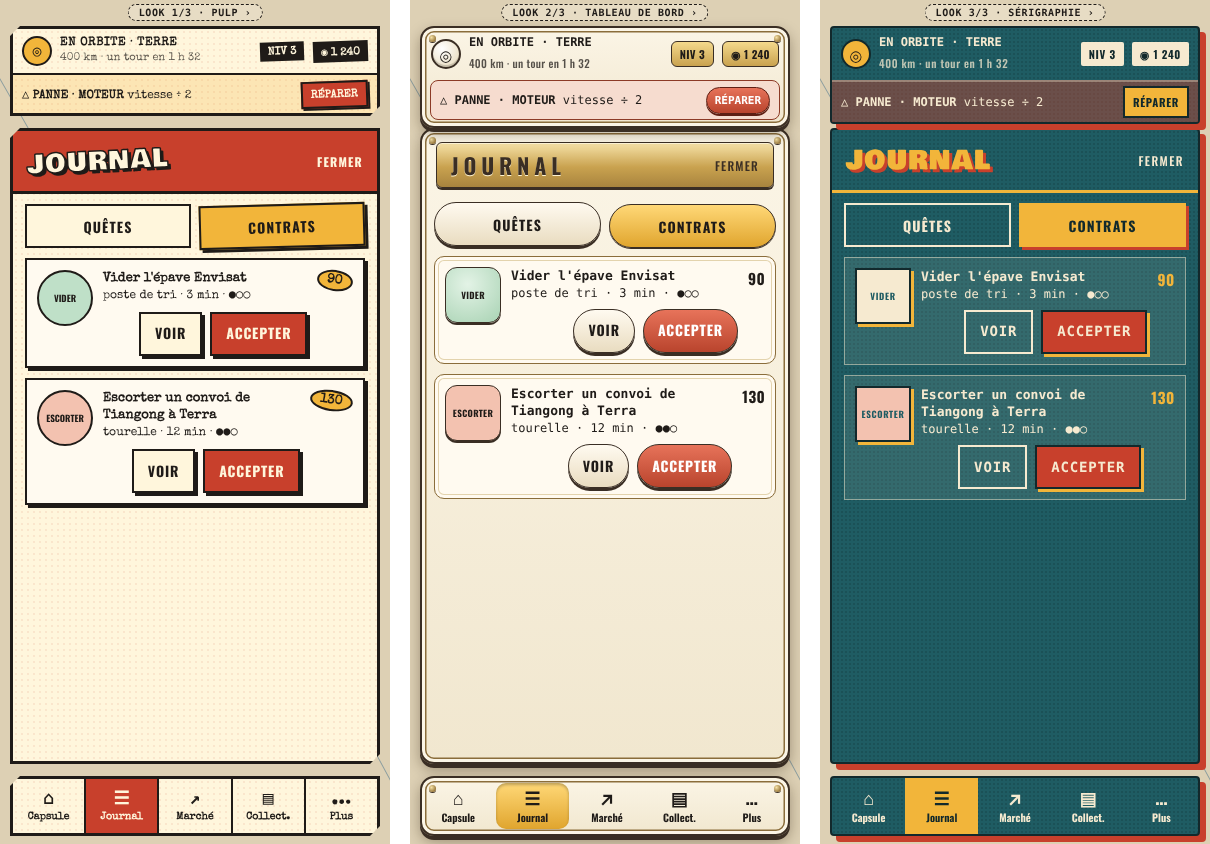
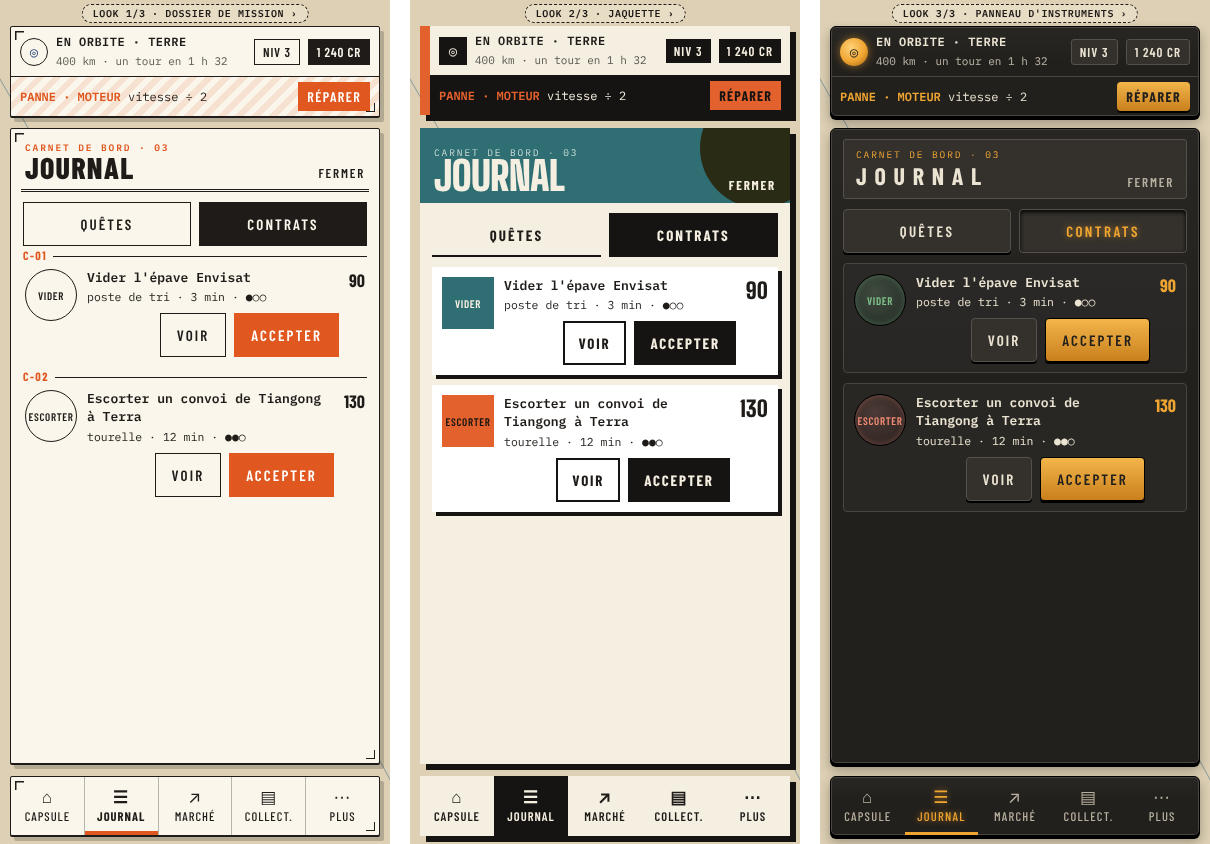
Maquette des fenêtres, deuxième tour : dossier de mission, jaquette, panneau d'instruments
Claude-Session: https://claude.ai/code/session_01F6ocbpycmQ7YQZPxUJPY13

diff --git a/maquette-fenetres.html b/maquette-fenetres.html
@@ -6,150 +6,167 @@
     <meta name="theme-color" content="#e7dcc4" />
     <link rel="preconnect" href="https://fonts.googleapis.com" />
     <link rel="preconnect" href="https://fonts.gstatic.com" crossorigin />
-    <link href="https://fonts.googleapis.com/css2?family=Bowlby+One+SC&family=Special+Elite&family=Oswald:wght@500;700&display=swap" rel="stylesheet" />
+    <link href="https://fonts.googleapis.com/css2?family=Barlow+Condensed:wght@500;600;700;800&family=IBM+Plex+Mono:wght@400;500;600&family=Big+Shoulders+Display:wght@800;900&display=swap" rel="stylesheet" />
     <title>Maquette des fenêtres</title>
     <!--
-      Trois looks rétro pour les fenêtres (demande d'Adrien du 22/10/2026 : « vintage, rétro, pulp 50's ; tu peux carrément
-      changer le look ? »), sur la carte kraft. Données fictives. La pastille du haut fait passer d'un look à l'autre.
+      Trois looks pour les fenêtres, deuxième tour (Adrien, 22/10/2026 : le premier tour faisait « trop enfantin » ; il
+      veut « plus sérieux et fun à la fois »), sur la carte kraft. Données fictives. La pastille du haut fait passer d'un
+      look à l'autre.
     -->
     <style>
-      :root { --carte: #e7dcc4; --encre: #1f1b18; --moutarde: #f2b53a; --cerise: #d9694f; --rouge: #c8402c; --police: ui-monospace, 'SF Mono', Menlo, Consolas, monospace; }
+      :root { --carte: #e7dcc4; --encre: #1f1b18; }
       * { box-sizing: border-box; margin: 0; padding: 0; }
-      html, body { height: 100%; overflow: hidden; color: var(--encre); font-family: var(--police); -webkit-user-select: none; user-select: none; }
+      html, body { height: 100%; overflow: hidden; color: var(--encre); font-family: 'IBM Plex Mono', ui-monospace, monospace; -webkit-user-select: none; user-select: none; }
       body { background: var(--carte); }
       .carte { position: fixed; inset: 0; width: 100vw; height: 100dvh; object-fit: cover; object-position: center 46%; mix-blend-mode: multiply; }
       button { font: inherit; color: inherit; border: none; background: none; }
-      #look { position: fixed; z-index: 50; top: calc(4px + env(safe-area-inset-top)); left: 50%; transform: translateX(-50%); padding: 2px 10px; font: bold 10px var(--police);
+      #look { position: fixed; z-index: 50; top: calc(4px + env(safe-area-inset-top)); left: 50%; transform: translateX(-50%); padding: 2px 10px; font: 600 10px 'IBM Plex Mono', monospace;
         letter-spacing: 0.06em; border: 1.5px dashed var(--encre); border-radius: 10px; background: var(--carte); white-space: nowrap; }
 
-      /* Structure commune : la console du haut, un volet ouvert (Journal), la console du bas, les onglets. */
+      /* Structure commune. */
       .console { position: fixed; top: calc(26px + env(safe-area-inset-top)); left: 10px; right: 10px; z-index: 5; }
       .console .etat { display: flex; align-items: center; gap: 8px; padding: 7px 9px; }
       .console .ou { flex: 1; min-width: 0; }
       .console .ou b { display: block; font-size: 12px; letter-spacing: 0.04em; }
       .console .ou small { font-size: 11px; opacity: 0.75; }
-      .rond { flex: none; width: 30px; height: 30px; display: grid; place-items: center; border-radius: 50%; font-size: 15px; }
-      .puce { flex: none; padding: 4px 8px; font-size: 11px; font-weight: bold; }
+      .rond { flex: none; width: 28px; height: 28px; display: grid; place-items: center; font-size: 14px; }
+      .puce { flex: none; padding: 4px 8px; font-size: 11px; font-weight: 600; }
       .alerte { display: flex; align-items: center; gap: 8px; min-height: 40px; padding: 4px 9px; font-size: 12px; }
       .alerte span { flex: 1; }
-      .alerte em { font-style: normal; font-weight: bold; font-size: 11px; padding: 6px 8px; }
+      .alerte em { font-style: normal; font-weight: 600; font-size: 11px; padding: 6px 9px; }
       .volet { position: fixed; left: 10px; right: 10px; top: 128px; bottom: 80px; z-index: 4; display: flex; flex-direction: column; overflow: hidden; }
-      .volet .titre { display: flex; align-items: center; justify-content: space-between; padding: 10px 14px; }
-      .volet .titre h2 { font: 26px 'Bowlby One SC', sans-serif; letter-spacing: 0.02em; }
+      .volet .titre { display: flex; align-items: flex-end; justify-content: space-between; padding: 10px 14px; }
+      .volet .titre .surtitre { display: block; font-size: 9.5px; letter-spacing: 0.2em; }
       .volet .corps { flex: 1; overflow: hidden; padding: 10px 12px; display: flex; flex-direction: column; gap: 10px; }
       .sous { display: flex; gap: 8px; }
-      .sous button { flex: 1; min-height: 44px; font-weight: bold; font-size: 12px; letter-spacing: 0.08em; }
-      .contrat { display: flex; gap: 10px; padding: 10px; }
-      .tuile { flex: none; width: 56px; height: 56px; display: grid; place-items: center; font-size: 9px; font-weight: bold; text-align: center; }
-      .contrat .txt { flex: 1; font-size: 12px; line-height: 1.35; }
-      .contrat .txt b { display: block; font-size: 13px; }
-      .contrat .prix { font-weight: bold; font-size: 13px; white-space: nowrap; }
+      .sous button { flex: 1; min-height: 44px; font-size: 12px; letter-spacing: 0.1em; }
+      .contrat { position: relative; display: flex; gap: 10px; padding: 10px; }
+      .tuile { flex: none; width: 52px; height: 52px; display: grid; place-items: center; font-size: 9px; font-weight: 600; text-align: center; }
+      .contrat .txt { flex: 1; font-size: 11.5px; line-height: 1.4; }
+      .contrat .txt b { display: block; font-size: 13px; margin-bottom: 2px; }
+      .contrat .prix { font-weight: 600; font-size: 13px; white-space: nowrap; }
       .contrat .actions { display: flex; justify-content: flex-end; gap: 8px; margin-top: 8px; }
-      .contrat .actions button { min-height: 44px; padding: 0 14px; font-weight: bold; font-size: 12px; letter-spacing: 0.06em; }
+      .contrat .actions button { min-height: 44px; padding: 0 16px; font-size: 12px; letter-spacing: 0.08em; }
       .onglets { position: fixed; left: 10px; right: 10px; bottom: calc(8px + env(safe-area-inset-bottom)); height: 60px; z-index: 5; display: flex; overflow: hidden; }
-      .onglets button { flex: 1; display: flex; flex-direction: column; align-items: center; justify-content: center; gap: 3px; font-size: 10.5px; font-weight: bold; }
-      .onglets i { font-style: normal; font-size: 18px; line-height: 1; }
+      .onglets button { flex: 1; display: flex; flex-direction: column; align-items: center; justify-content: center; gap: 3px; font-size: 10.5px; }
+      .onglets i { font-style: normal; font-size: 17px; line-height: 1; }
 
-      /* ===== 1. PULP : couverture de magazine. Papier jauni tramé, gros cadre noir, coins coupés, bannière cerise
-         penchée, boutons en étiquettes, la police machine à écrire pour les textes. ===== */
-      body.pulp .panneau { background: #fff6dc radial-gradient(circle, rgba(200, 64, 44, 0.09) 1px, transparent 1.3px) 0 0 / 6px 6px;
-        border: 3px solid var(--encre); box-shadow: 5px 5px 0 var(--encre); clip-path: polygon(10px 0, 100% 0, 100% calc(100% - 10px), calc(100% - 10px) 100%, 0 100%, 0 10px); }
-      body.pulp .console, body.pulp .volet, body.pulp .onglets, body.pulp .bas { font-family: 'Special Elite', var(--police); }
-      body.pulp .rond { background: var(--moutarde); border: 2px solid var(--encre); }
-      body.pulp .puce { background: var(--encre); color: #fff6dc; transform: rotate(-2deg); }
-      body.pulp .alerte { border-top: 2px solid var(--encre); background: rgba(242, 181, 58, 0.25); }
-      body.pulp .alerte em { background: var(--rouge); color: #fff6dc; border: 2px solid var(--encre); transform: rotate(-2deg); box-shadow: 2px 2px 0 var(--encre); }
-      body.pulp .volet .titre { background: var(--rouge); border-bottom: 3px solid var(--encre); }
-      body.pulp .volet .titre h2 { color: #fff6dc; -webkit-text-stroke: 1.5px var(--encre); text-shadow: 3px 3px 0 var(--encre); transform: rotate(-3deg); }
-      body.pulp .volet .titre button { font: bold 12px 'Oswald', sans-serif; letter-spacing: 0.1em; color: #fff6dc; }
-      body.pulp .sous button { font-family: 'Oswald', sans-serif; font-size: 14px; border: 2.5px solid var(--encre); background: #fff6dc; }
-      body.pulp .sous button.actif { background: var(--moutarde); transform: rotate(-1.5deg); box-shadow: 3px 3px 0 var(--encre); }
-      body.pulp .contrat { background: #fffaf0; border: 2px solid var(--encre); box-shadow: 3px 3px 0 var(--encre); }
-      body.pulp .tuile { border: 2px solid var(--encre); border-radius: 50%; background: #bfe0c8; font-family: 'Oswald', sans-serif; }
-      body.pulp .contrat .prix { padding: 2px 8px; height: fit-content; background: var(--moutarde); border: 2px solid var(--encre); border-radius: 50%; transform: rotate(8deg); }
-      body.pulp .contrat .actions button { font-family: 'Oswald', sans-serif; font-size: 14px; border: 2.5px solid var(--encre); background: #fff6dc; box-shadow: 3px 3px 0 var(--encre); }
-      body.pulp .contrat .actions button.go { background: var(--rouge); color: #fff6dc; }
-      body.pulp .onglets button + button { border-left: 2px solid var(--encre); }
-      body.pulp .onglets button.actif { background: var(--rouge); color: #fff6dc; }
+      /* ===== 1. DOSSIER DE MISSION : les documents techniques de la NASA des années 60. Papier ivoire, filets fins,
+         repères d'imprimerie aux coins, numéros de section, bandeau de classification, orange sécurité et bleu. Une
+         typo condensée pour les titres, une mono technique pour les données. ===== */
+      body.dossier { --papier: #faf6ec; --orange: #e0571f; --bleu: #24477a; }
+      body.dossier .panneau { background: var(--papier); border: 1.5px solid var(--encre); border-radius: 2px; box-shadow: 0 1px 0 var(--encre), 4px 5px 0 rgba(31, 27, 24, 0.22); }
+      body.dossier .panneau::before { content: ''; position: absolute; inset: 4px; pointer-events: none;
+        background: linear-gradient(var(--encre), var(--encre)) 0 0 / 9px 1.5px no-repeat, linear-gradient(var(--encre), var(--encre)) 0 0 / 1.5px 9px no-repeat,
+          linear-gradient(var(--encre), var(--encre)) 100% 100% / 9px 1.5px no-repeat, linear-gradient(var(--encre), var(--encre)) 100% 100% / 1.5px 9px no-repeat; }
+      body.dossier .rond { border: 1.5px solid var(--encre); border-radius: 50%; color: var(--bleu); }
+      body.dossier .puce { border: 1.5px solid var(--encre); font-family: 'Barlow Condensed', sans-serif; font-size: 13px; letter-spacing: 0.06em; }
+      body.dossier .puce.or { background: var(--encre); color: var(--papier); }
+      body.dossier .alerte { border-top: 1.5px solid var(--encre); background: repeating-linear-gradient(-45deg, rgba(224, 87, 31, 0.13) 0 6px, transparent 6px 12px); }
+      body.dossier .alerte b { color: var(--orange); }
+      body.dossier .alerte em { background: var(--orange); color: #fff; font-family: 'Barlow Condensed', sans-serif; font-size: 14px; letter-spacing: 0.1em; }
+      body.dossier .volet .titre { border-bottom: 3px double var(--encre); margin: 0 10px; padding: 12px 4px 8px; }
+      body.dossier .volet .titre h2 { font: 800 30px/0.9 'Barlow Condensed', sans-serif; letter-spacing: 0.04em; text-transform: uppercase; }
+      body.dossier .volet .titre .surtitre { color: var(--orange); font-weight: 600; }
+      body.dossier .volet .titre button { font: 600 13px 'Barlow Condensed', sans-serif; letter-spacing: 0.14em; }
+      body.dossier .sous button { font: 600 15px 'Barlow Condensed', sans-serif; letter-spacing: 0.14em; border: 1.5px solid var(--encre); }
+      body.dossier .sous button.actif { background: var(--encre); color: var(--papier); }
+      body.dossier .contrat { border-top: 1.5px solid var(--encre); padding: 12px 2px 10px; }
+      body.dossier .contrat::before { content: attr(data-n); position: absolute; top: -9px; left: 0; padding: 0 6px 0 0; background: var(--papier); font: 700 12px 'Barlow Condensed', sans-serif; letter-spacing: 0.12em; color: var(--orange); }
+      body.dossier .tuile { border: 1.5px solid var(--encre); border-radius: 50%; font-family: 'Barlow Condensed', sans-serif; font-size: 11px; letter-spacing: 0.06em; }
+      body.dossier .contrat .prix { font: 700 18px 'Barlow Condensed', sans-serif; }
+      body.dossier .contrat .actions button { font: 600 15px 'Barlow Condensed', sans-serif; letter-spacing: 0.14em; border: 1.5px solid var(--encre); }
+      body.dossier .contrat .actions button.go { background: var(--orange); color: #fff; border-color: var(--orange); }
+      body.dossier .onglets { font-family: 'Barlow Condensed', sans-serif; }
+      body.dossier .onglets button { font-size: 12.5px; letter-spacing: 0.08em; }
+      body.dossier .onglets button + button { border-left: 1px solid rgba(31, 27, 24, 0.3); }
+      body.dossier .onglets button.actif { box-shadow: inset 0 -4px 0 var(--orange); font-weight: 700; }
 
-      /* ===== 2. TABLEAU DE BORD : bakélite, émail et laiton. Fenêtres en émail crème à double filet, rivets aux coins,
-         plaques gravées en laiton pour les titres, boutons-poussoirs bombés. ===== */
-      body.bord .panneau { background: linear-gradient(#fbf5e6, #f1e7cf); border: 2px solid #3a2e24; border-radius: 14px;
-        box-shadow: inset 0 0 0 3px #fbf5e6, inset 0 0 0 4.5px #8a6d3b, 0 4px 0 #3a2e24, 0 6px 14px rgba(40, 25, 10, 0.35); position: fixed; }
-      body.bord .panneau::before, body.bord .panneau::after { content: ''; position: absolute; top: 7px; width: 7px; height: 7px; border-radius: 50%;
-        background: radial-gradient(circle at 35% 35%, #f6e2a8, #9b7a3c 70%); box-shadow: 0 1px 0 #3a2e24; }
-      body.bord .panneau::before { left: 7px; } body.bord .panneau::after { right: 7px; }
-      body.bord .console, body.bord .volet, body.bord .onglets, body.bord .bas { font-family: 'Oswald', sans-serif; letter-spacing: 0.02em; }
-      body.bord .console .ou b, body.bord .alerte, body.bord .contrat .txt { font-family: var(--police); letter-spacing: 0; }
-      body.bord .rond { background: radial-gradient(circle at 35% 30%, #fff, #e6d7b5); border: 2px solid #3a2e24; box-shadow: inset 0 -2px 0 rgba(0, 0, 0, 0.15); }
-      body.bord .puce { border-radius: 6px; background: linear-gradient(#f4d98c, #c9a24f); border: 1.5px solid #3a2e24; }
-      body.bord .alerte { margin: 0 8px 6px; border-radius: 8px; background: #f6dccf; border: 1.5px solid #8c3a26; }
-      body.bord .alerte em { border-radius: 14px; background: linear-gradient(#e7735a, #b9442d); color: #fff; border: 1.5px solid #5e1f13; box-shadow: 0 2px 0 #5e1f13; }
-      body.bord .volet .titre { margin: 12px 14px 4px; padding: 6px 14px; border-radius: 6px; background: linear-gradient(#f6e2a8, #c9a24f 55%, #a8843e); border: 1.5px solid #3a2e24;
-        box-shadow: inset 0 1px 0 #fff6d8, 0 2px 0 #3a2e24; }
-      body.bord .volet .titre h2 { font: 700 22px 'Oswald', sans-serif; letter-spacing: 0.22em; color: #3a2e24; text-shadow: 0 1px 0 #fff3cf; }
-      body.bord .volet .titre button { font-size: 12px; letter-spacing: 0.1em; color: #3a2e24; }
-      body.bord .sous button { border-radius: 22px; border: 1.5px solid #3a2e24; background: linear-gradient(#fffaf0, #e9dcc0); box-shadow: 0 3px 0 #3a2e24; font-family: 'Oswald', sans-serif; font-size: 14px; }
-      body.bord .sous button.actif { background: linear-gradient(#ffd877, #e0a52e); box-shadow: 0 1px 0 #3a2e24; transform: translateY(2px); }
-      body.bord .contrat { border-radius: 10px; background: #fffaf0; border: 1.5px solid #8a6d3b; box-shadow: inset 0 0 0 3px #fffaf0, inset 0 0 0 4px #e3d3ad; }
-      body.bord .tuile { border-radius: 12px; background: radial-gradient(circle at 40% 30%, #e3f3e6, #a9d3b4); border: 1.5px solid #3a2e24; box-shadow: 0 2px 0 #3a2e24; font-family: 'Oswald', sans-serif; }
-      body.bord .contrat .prix { font-family: 'Oswald', sans-serif; font-size: 15px; }
-      body.bord .contrat .actions button { border-radius: 22px; border: 1.5px solid #3a2e24; background: linear-gradient(#fffaf0, #e9dcc0); box-shadow: 0 3px 0 #3a2e24; font-family: 'Oswald', sans-serif; font-size: 14px; }
-      body.bord .contrat .actions button.go { background: linear-gradient(#e7735a, #b9442d); color: #fff; }
-      body.bord .onglets button.actif { background: linear-gradient(#ffd877, #e0a52e); border-radius: 10px; margin: 5px 2px; box-shadow: inset 0 2px 3px rgba(0, 0, 0, 0.25); }
+      /* ===== 2. JAQUETTE : les pochettes de disques jazz des années 50-60 (Blue Note) et les génériques de Saul Bass.
+         Aplats francs et sobres, typographie lourde et serrée, compositions décalées, une seule couleur forte par
+         fenêtre. Élégant, adulte, mais avec du rythme. ===== */
+      body.jaquette { --creme: #f5efe1; --noir: #161412; --accent: #e3612d; --sarcelle: #2f6f73; }
+      body.jaquette .panneau { background: var(--creme); border-radius: 0; box-shadow: 6px 6px 0 var(--noir); }
+      body.jaquette .console { border-left: 10px solid var(--accent); }
+      body.jaquette .rond { background: var(--noir); color: var(--creme); }
+      body.jaquette .puce { background: var(--noir); color: var(--creme); font-family: 'Barlow Condensed', sans-serif; font-size: 13px; letter-spacing: 0.08em; }
+      body.jaquette .alerte { background: var(--noir); color: var(--creme); }
+      body.jaquette .alerte b { color: var(--accent); }
+      body.jaquette .alerte em { background: var(--accent); color: var(--noir); font-family: 'Barlow Condensed', sans-serif; font-weight: 700; font-size: 14px; letter-spacing: 0.08em; }
+      body.jaquette .volet .titre { background: var(--sarcelle); color: var(--creme); padding: 18px 14px 10px; position: relative; overflow: hidden; }
+      body.jaquette .volet .titre::after { content: ''; position: absolute; right: -30px; top: -40px; width: 120px; height: 120px; border-radius: 50%; background: var(--accent); mix-blend-mode: multiply; }
+      body.jaquette .volet .titre h2 { position: relative; z-index: 1; font: 900 40px/0.85 'Big Shoulders Display', sans-serif; letter-spacing: -0.01em; text-transform: uppercase; }
+      body.jaquette .volet .titre .surtitre { color: #c9dcd6; }
+      body.jaquette .volet .titre button { position: relative; z-index: 1; font: 700 13px 'Barlow Condensed', sans-serif; letter-spacing: 0.14em; }
+      body.jaquette .sous button { font: 700 15px 'Barlow Condensed', sans-serif; letter-spacing: 0.14em; background: transparent; box-shadow: inset 0 -2px 0 var(--noir); }
+      body.jaquette .sous button.actif { background: var(--noir); color: var(--creme); box-shadow: none; }
+      body.jaquette .contrat { background: #fff; box-shadow: 4px 4px 0 var(--noir); }
+      body.jaquette .tuile { background: var(--sarcelle); color: var(--creme); font-family: 'Barlow Condensed', sans-serif; font-size: 11px; letter-spacing: 0.06em; }
+      body.jaquette .tuile.rouge { background: var(--accent); color: var(--noir); }
+      body.jaquette .contrat .prix { font: 900 22px 'Big Shoulders Display', sans-serif; }
+      body.jaquette .contrat .actions button { font: 700 15px 'Barlow Condensed', sans-serif; letter-spacing: 0.12em; box-shadow: inset 0 0 0 2px var(--noir); }
+      body.jaquette .contrat .actions button.go { background: var(--noir); color: var(--creme); }
+      body.jaquette .onglets { font-family: 'Barlow Condensed', sans-serif; }
+      body.jaquette .onglets button { font-size: 12.5px; font-weight: 600; letter-spacing: 0.08em; }
+      body.jaquette .onglets button.actif { background: var(--noir); color: var(--creme); }
 
-      /* ===== 3. SÉRIGRAPHIE : affiche de propagande spatiale. Fenêtres en aplat bleu canard, texte crème, titres
-         moutarde, ombres décalées de couleur (le décalage des passages d'encre), un grain d'impression. ===== */
-      body.affiche .panneau { color: #f6ead0; background: #1f5c63 radial-gradient(circle, rgba(0, 0, 0, 0.12) 0.8px, transparent 1px) 0 0 / 4px 4px;
-        border: 2.5px solid #12292c; border-radius: 4px; box-shadow: 6px 6px 0 var(--rouge); }
-      body.affiche .console, body.affiche .volet, body.affiche .onglets, body.affiche .bas { font-family: 'Oswald', sans-serif; letter-spacing: 0.04em; }
-      body.affiche .console .ou b, body.affiche .alerte span, body.affiche .contrat .txt { font-family: var(--police); letter-spacing: 0; }
-      body.affiche .rond { background: var(--moutarde); color: var(--encre); border: 2px solid #12292c; }
-      body.affiche .puce { background: #f6ead0; color: #12292c; border-radius: 2px; }
-      body.affiche .alerte { border-top: 2px solid rgba(246, 234, 208, 0.35); background: rgba(200, 64, 44, 0.45); }
-      body.affiche .alerte em { background: var(--moutarde); color: #12292c; border: 2px solid #12292c; }
-      body.affiche .volet .titre { border-bottom: 3px solid var(--moutarde); }
-      body.affiche .volet .titre h2 { color: var(--moutarde); text-shadow: 3px 3px 0 var(--rouge); letter-spacing: 0.04em; }
-      body.affiche .volet .titre button { font-size: 12px; letter-spacing: 0.12em; color: #f6ead0; }
-      body.affiche .sous button { border: 2px solid #f6ead0; color: #f6ead0; font-size: 14px; }
-      body.affiche .sous button.actif { background: var(--moutarde); color: #12292c; border-color: var(--moutarde); box-shadow: 3px 3px 0 var(--rouge); }
-      body.affiche .contrat { background: rgba(246, 234, 208, 0.1); border: 1.5px solid rgba(246, 234, 208, 0.5); }
-      body.affiche .tuile { background: #f6ead0; color: #1f5c63; border: 2px solid #12292c; box-shadow: 3px 3px 0 var(--moutarde); }
-      body.affiche .contrat .prix { color: var(--moutarde); font-size: 15px; }
-      body.affiche .contrat .actions button { border: 2px solid #f6ead0; color: #f6ead0; font-size: 14px; }
-      body.affiche .contrat .actions button.go { background: var(--rouge); border-color: #12292c; box-shadow: 3px 3px 0 var(--moutarde); }
-      body.affiche .onglets button.actif { background: var(--moutarde); color: #12292c; }
+      /* ===== 3. PANNEAU D'INSTRUMENTS : l'avionique des années 60. Fenêtres en bakélite noire mate, étiquettes
+         gravées blanc sur noir, filets fins, voyants ambre, boutons à cabochon. Très sérieux, et ça se détache net de
+         la carte kraft. ===== */
+      body.instruments { --noir: #22201d; --gris: #34312c; --gravure: #ece4d2; --ambre: #f0a531; --vert: #7fc28a; }
+      body.instruments .panneau { color: var(--gravure); background: var(--noir) linear-gradient(rgba(255, 255, 255, 0.03), transparent 40%);
+        border: 1px solid #000; border-radius: 6px; box-shadow: inset 0 0 0 1px #4a463f, 0 3px 0 #000, 0 6px 12px rgba(0, 0, 0, 0.3); }
+      body.instruments .rond { border-radius: 50%; background: radial-gradient(circle at 40% 35%, #ffd27a, var(--ambre) 55%, #9c5d10); color: var(--noir); box-shadow: 0 0 8px rgba(240, 165, 49, 0.55); }
+      body.instruments .puce { background: var(--gris); border: 1px solid #55504a; border-radius: 3px; font-family: 'Barlow Condensed', sans-serif; font-size: 13px; letter-spacing: 0.08em; }
+      body.instruments .alerte { border-top: 1px solid #4a463f; }
+      body.instruments .alerte b { color: var(--ambre); }
+      body.instruments .alerte em { border-radius: 4px; background: linear-gradient(#f3b54a, #c9801d); color: var(--noir); font-family: 'Barlow Condensed', sans-serif; font-weight: 700; font-size: 14px; letter-spacing: 0.1em; box-shadow: 0 2px 0 #000; }
+      body.instruments .volet .titre { margin: 10px 12px 0; padding: 8px 12px; border: 1px solid #55504a; border-radius: 3px; background: var(--gris); }
+      body.instruments .volet .titre h2 { font: 700 24px 'Barlow Condensed', sans-serif; letter-spacing: 0.32em; text-transform: uppercase; }
+      body.instruments .volet .titre .surtitre { color: var(--ambre); }
+      body.instruments .volet .titre button { font: 600 13px 'Barlow Condensed', sans-serif; letter-spacing: 0.14em; color: #b8b0a0; }
+      body.instruments .sous button { font: 600 15px 'Barlow Condensed', sans-serif; letter-spacing: 0.16em; border-radius: 4px; background: var(--gris); border: 1px solid #55504a; box-shadow: 0 2px 0 #000; }
+      body.instruments .sous button.actif { color: var(--ambre); box-shadow: inset 0 2px 4px #000; text-shadow: 0 0 6px rgba(240, 165, 49, 0.6); }
+      body.instruments .contrat { border: 1px solid #4a463f; border-radius: 4px; background: rgba(255, 255, 255, 0.03); }
+      body.instruments .tuile { border-radius: 50%; background: radial-gradient(circle at 40% 35%, #3f4b3f, #232a23); border: 1px solid #000; color: var(--vert); font-family: 'Barlow Condensed', sans-serif; font-size: 11px; letter-spacing: 0.06em; box-shadow: inset 0 0 6px rgba(127, 194, 138, 0.35); }
+      body.instruments .tuile.rouge { color: #f08a72; background: radial-gradient(circle at 40% 35%, #4b3a36, #2a201e); box-shadow: inset 0 0 6px rgba(240, 138, 114, 0.35); }
+      body.instruments .contrat .prix { font: 700 18px 'Barlow Condensed', sans-serif; color: var(--ambre); }
+      body.instruments .contrat .actions button { font: 600 15px 'Barlow Condensed', sans-serif; letter-spacing: 0.14em; border-radius: 4px; background: var(--gris); border: 1px solid #55504a; box-shadow: 0 2px 0 #000; }
+      body.instruments .contrat .actions button.go { background: linear-gradient(#f3b54a, #c9801d); color: var(--noir); border-color: #000; }
+      body.instruments .onglets { font-family: 'Barlow Condensed', sans-serif; }
+      body.instruments .onglets button { font-size: 12.5px; letter-spacing: 0.1em; color: #b8b0a0; }
+      body.instruments .onglets button.actif { color: var(--ambre); text-shadow: 0 0 6px rgba(240, 165, 49, 0.6); box-shadow: inset 0 -3px 0 var(--ambre); }
 
-      .bas { position: fixed; left: 10px; right: 10px; bottom: 80px; z-index: 5; display: none; }
+      .panneau { position: fixed; }
       [hidden] { display: none !important; }
     </style>
   </head>
-  <body class="pulp">
+  <body class="dossier">
     <img class="carte" src="./maquette/carte-repos.png" alt="" />
-    <button type="button" id="look">LOOK 1/3 · PULP ›</button>
+    <button type="button" id="look">LOOK 1/3 · DOSSIER DE MISSION ›</button>
 
     <div class="console panneau">
-      <div class="etat"><span class="rond">◎</span><div class="ou"><b>EN ORBITE · TERRE</b><small>400 km · un tour en 1 h 32</small></div><span class="puce">NIV 3</span><span class="puce">◉ 1 240</span></div>
-      <div class="alerte"><span>△ <b>PANNE · MOTEUR</b> vitesse ÷ 2</span><em>RÉPARER</em></div>
+      <div class="etat"><span class="rond">◎</span><div class="ou"><b>EN ORBITE · TERRE</b><small>400 km · un tour en 1 h 32</small></div><span class="puce">NIV 3</span><span class="puce or">1 240 CR</span></div>
+      <div class="alerte"><span><b>PANNE · MOTEUR</b> vitesse ÷ 2</span><em>RÉPARER</em></div>
     </div>
 
     <div class="volet panneau">
-      <div class="titre"><h2>JOURNAL</h2><button type="button">FERMER</button></div>
+      <div class="titre"><div><span class="surtitre">CARNET DE BORD · 03</span><h2>Journal</h2></div><button type="button">FERMER</button></div>
       <div class="corps">
         <div class="sous"><button type="button">QUÊTES</button><button type="button" class="actif">CONTRATS</button></div>
-        <div class="contrat"><span class="tuile">VIDER</span><div class="txt"><b>Vider l'épave Envisat</b>poste de tri · 3 min · ●○○
+        <div class="contrat" data-n="C-01"><span class="tuile">VIDER</span><div class="txt"><b>Vider l'épave Envisat</b>poste de tri · 3 min · ●○○
           <div class="actions"><button type="button">VOIR</button><button type="button" class="go">ACCEPTER</button></div></div><span class="prix">90</span></div>
-        <div class="contrat"><span class="tuile" style="background:#f3c2b0">ESCORTER</span><div class="txt"><b>Escorter un convoi de Tiangong à Terra</b>tourelle · 12 min · ●●○
+        <div class="contrat" data-n="C-02"><span class="tuile rouge">ESCORTER</span><div class="txt"><b>Escorter un convoi de Tiangong à Terra</b>tourelle · 12 min · ●●○
           <div class="actions"><button type="button">VOIR</button><button type="button" class="go">ACCEPTER</button></div></div><span class="prix">130</span></div>
       </div>
     </div>
 
     <nav class="onglets panneau">
-      <button type="button"><i>⌂</i>Capsule</button><button type="button" class="actif"><i>☰</i>Journal</button><button type="button"><i>↗</i>Marché</button><button type="button"><i>▤</i>Collect.</button><button type="button"><i>…</i>Plus</button>
+      <button type="button"><i>⌂</i>CAPSULE</button><button type="button" class="actif"><i>☰</i>JOURNAL</button><button type="button"><i>↗</i>MARCHÉ</button><button type="button"><i>▤</i>COLLECT.</button><button type="button"><i>⋯</i>PLUS</button>
     </nav>
 
     <script>
-      const LOOKS = [['pulp', 'PULP'], ['bord', 'TABLEAU DE BORD'], ['affiche', 'SÉRIGRAPHIE']]
+      const LOOKS = [['dossier', 'DOSSIER DE MISSION'], ['jaquette', 'JAQUETTE'], ['instruments', 'PANNEAU D\'INSTRUMENTS']]
       let n = Math.max(0, LOOKS.findIndex(([k]) => k === new URLSearchParams(location.search).get('look')))
       const afficher = () => { document.body.className = LOOKS[n][0]; document.querySelector('#look').textContent = `LOOK ${n + 1}/3 · ${LOOKS[n][1]} ›` }
       document.querySelector('#look').onclick = () => { n = (n + 1) % LOOKS.length; afficher() }
